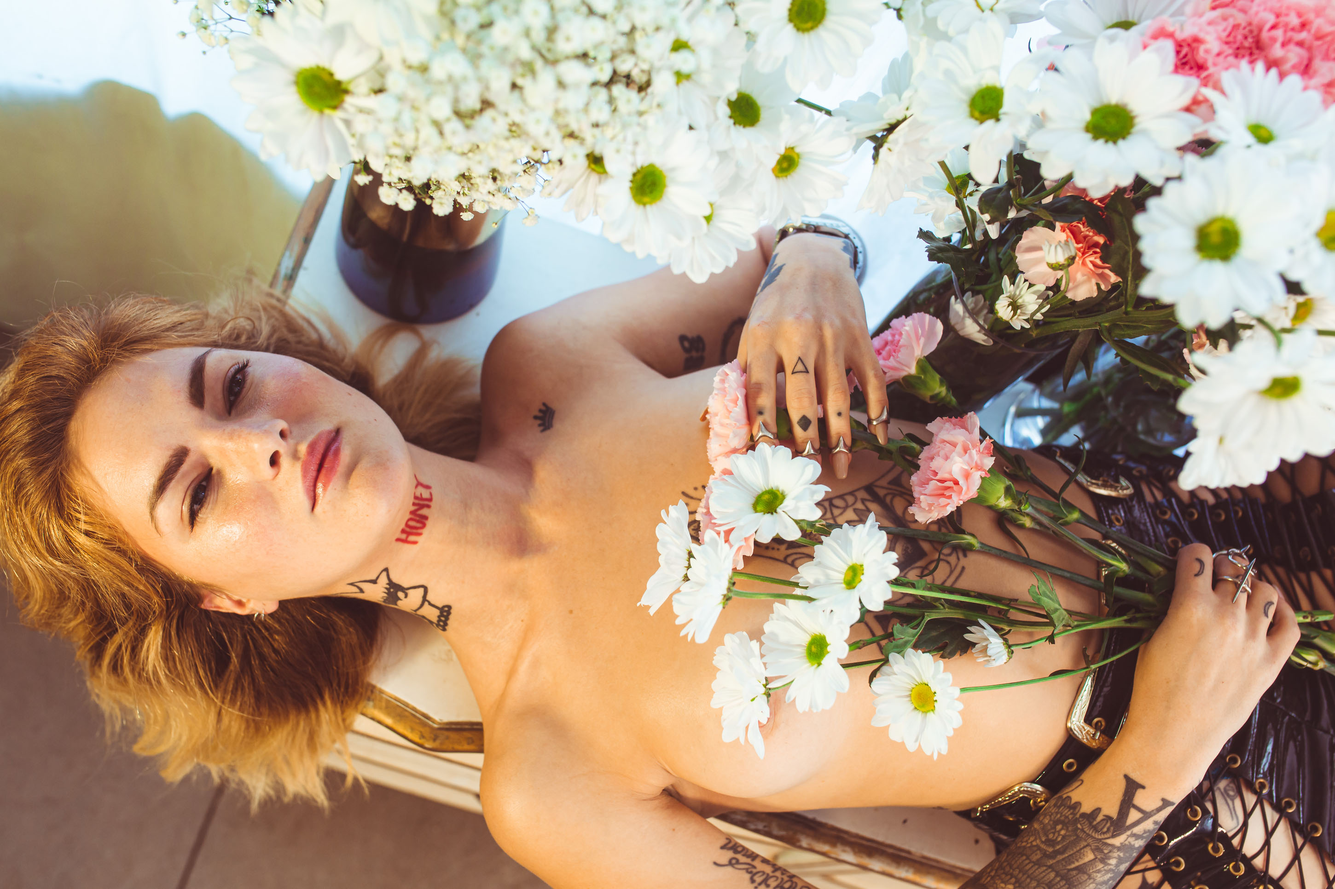
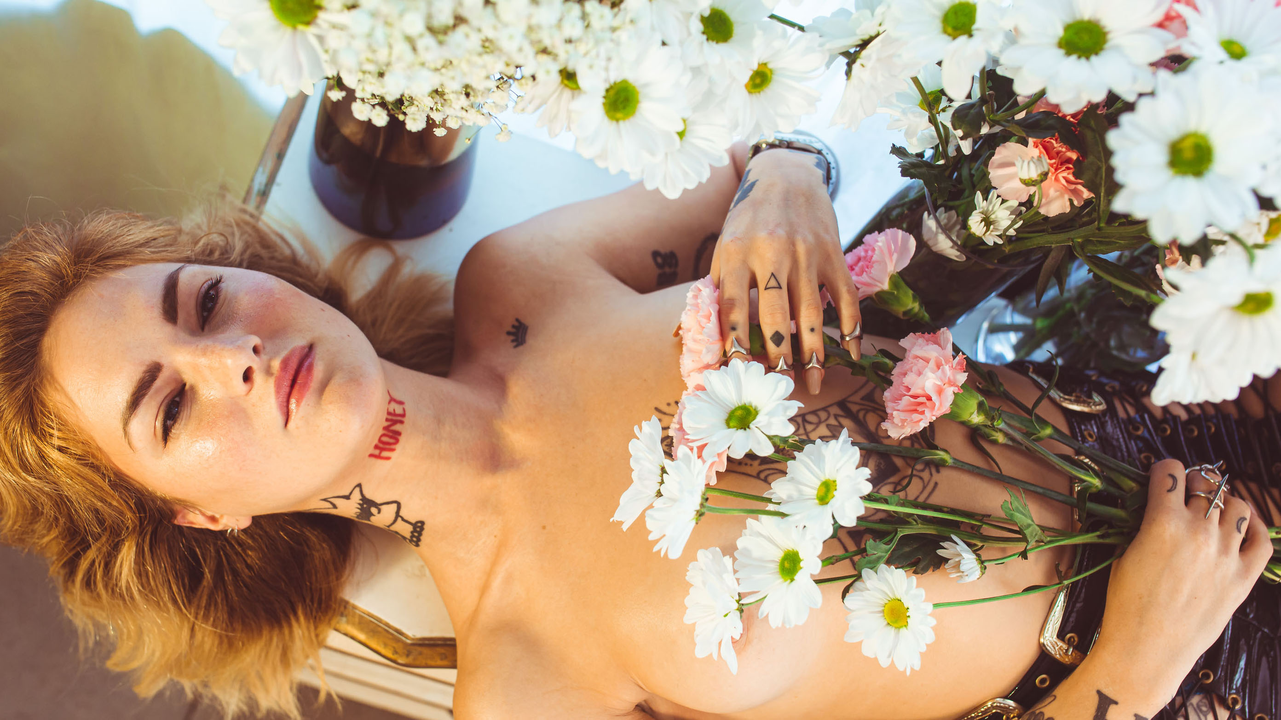
image crop for toggle image completion

diff --git a/script.js b/script.js
@@ -130,14 +130,7 @@ document.addEventListener('click', () => {
 })
 
 
-
-
-
-
-
-
-
-// set a number value variable
+// TOGGLE HEADER IMAGE FUNCTION 
 bMac.loadHeader = 2;
 
 document.querySelector('.arrow').onclick = () => {
